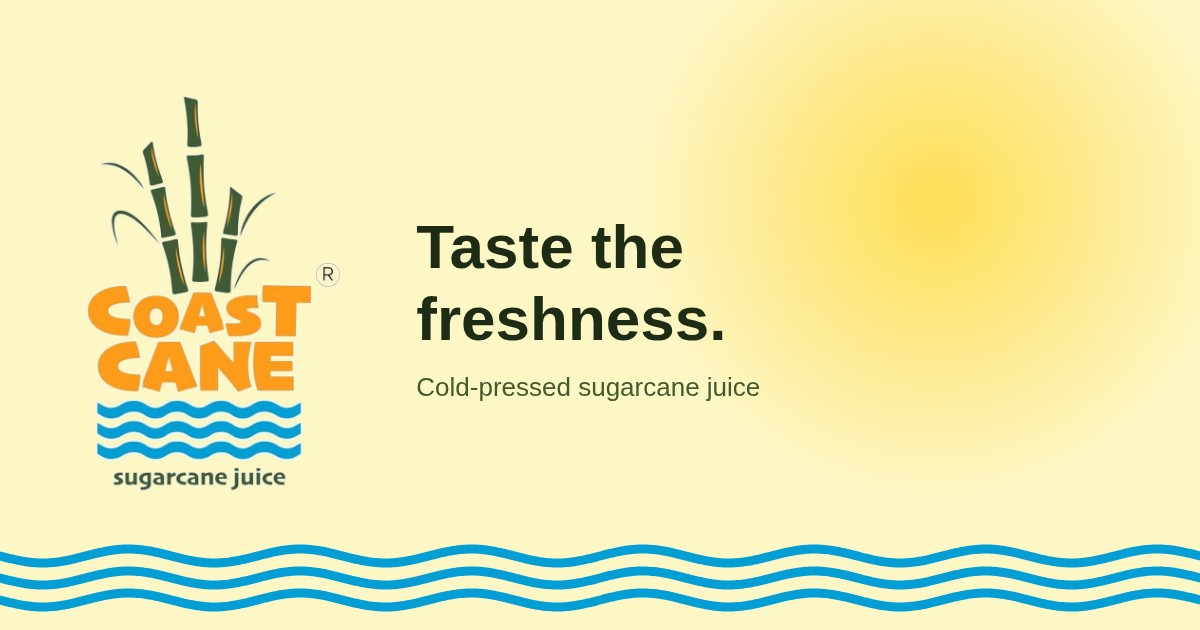
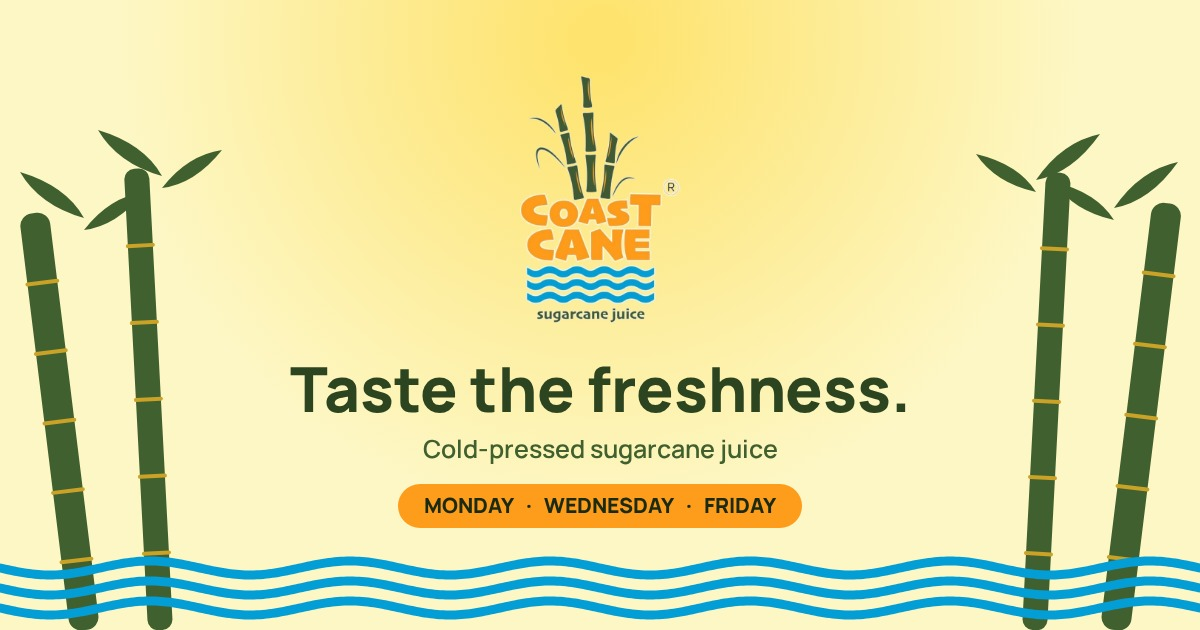
Fix link previews: absolute OG URLs and a crop-safe preview image
Sharing the link showed no image. The cause was a relative og:image
("assets/img/og-image.jpg"); WhatsApp's crawler does not resolve relative
paths, so it had nothing to fetch.

- All og:*, twitter:* and canonical URLs are now absolute against
  https://coastcane.pages.dev, as are the JSON-LD logo, image and url.
- Adds og:url, og:image:secure_url, og:image:type, og:image:alt,
  og:locale and explicit twitter:title/description/image so the card is
  complete rather than relying on crawler fallbacks.
- The image URL carries ?v=1. WhatsApp caches previews per URL, so this
  gives a way to force a refresh later.

The preview image is also redrawn. The old one placed the logo on the
left and the text on the right, which loses both halves when WhatsApp
crops a preview toward square. Logo, headline and delivery days are now
centred inside the middle 630px, with the decorative cane pushed out to
the croppable margins. Delivery days are on the card itself, since that
is the most useful fact in a shared link.

Verified by fetching the page with a WhatsApp user-agent: every tag is
present in the raw HTML with no JavaScript, and the og:image path returns
200 as a valid 1200x630 JPEG at 106 KB, well inside WhatsApp's limit.

Claude-Session: https://claude.ai/code/session_01QohTPRp1pya9JgETn8y7JW

diff --git a/index.html b/index.html
@@ -7,16 +7,39 @@
 <title>Coast Cane® | Fresh Cold-Pressed Sugarcane Juice</title>
 <meta name="description" content="Coast Cane brings you fresh, natural and tasty cold-pressed sugarcane juice. Order fresh sugarcane juice and enjoy delivery on Mondays, Wednesdays and Fridays.">
 <meta name="theme-color" content="#FDF7C5">
-<link rel="canonical" href="./">
+<link rel="canonical" href="https://coastcane.pages.dev/">
 
+<!-- ============================================================
+     LINK PREVIEWS (WhatsApp, Instagram DM, Facebook, X, iMessage)
+     ------------------------------------------------------------
+     These URLs MUST be absolute. WhatsApp's crawler does not
+     resolve relative paths, and a relative og:image is the usual
+     reason a shared link shows no picture.
+
+     If the site moves to another domain, change SITE_BASE in
+     every URL below (see SITE.md → "Link previews").
+
+     Bump the ?v= number whenever og-image.jpg changes — WhatsApp
+     caches previews per URL and will otherwise keep the old one.
+     ============================================================ -->
 <meta property="og:type" content="website">
 <meta property="og:site_name" content="Coast Cane®">
+<meta property="og:url" content="https://coastcane.pages.dev/">
+<meta property="og:locale" content="en_GB">
 <meta property="og:title" content="Coast Cane® | Fresh Cold-Pressed Sugarcane Juice">
 <meta property="og:description" content="Cold-pressed sugarcane juice, naturally refreshing and made with love. Delivery on Mondays, Wednesdays and Fridays.">
-<meta property="og:image" content="assets/img/og-image.jpg">
+<meta property="og:image" content="https://coastcane.pages.dev/assets/img/og-image.jpg?v=1">
+<meta property="og:image:secure_url" content="https://coastcane.pages.dev/assets/img/og-image.jpg?v=1">
+<meta property="og:image:type" content="image/jpeg">
 <meta property="og:image:width" content="1200">
 <meta property="og:image:height" content="630">
+<meta property="og:image:alt" content="Coast Cane — taste the freshness. Cold-pressed sugarcane juice, delivered Monday, Wednesday and Friday.">
+
 <meta name="twitter:card" content="summary_large_image">
+<meta name="twitter:title" content="Coast Cane® | Fresh Cold-Pressed Sugarcane Juice">
+<meta name="twitter:description" content="Cold-pressed sugarcane juice, naturally refreshing and made with love. Delivery on Mondays, Wednesdays and Fridays.">
+<meta name="twitter:image" content="https://coastcane.pages.dev/assets/img/og-image.jpg?v=1">
+<meta name="twitter:image:alt" content="Coast Cane — taste the freshness. Cold-pressed sugarcane juice.">
 
 <link rel="icon" href="assets/img/favicon-64.png" sizes="64x64" type="image/png">
 <link rel="apple-touch-icon" href="assets/img/apple-touch-icon.png">
@@ -34,11 +57,12 @@
 {
   "@context": "https://schema.org",
   "@type": "Organization",
+  "url": "https://coastcane.pages.dev/",
   "name": "Coast Cane",
   "alternateName": "Coast Cane®",
   "description": "Cold-press sugarcane juice cottage company serving fresh, natural and tasty sugarcane juice.",
-  "logo": "assets/img/coast-cane-logo.png",
-  "image": "assets/img/og-image.jpg",
+  "logo": "https://coastcane.pages.dev/assets/img/coast-cane-logo.png",
+  "image": "https://coastcane.pages.dev/assets/img/og-image.jpg",
   "sameAs": ["https://www.instagram.com/coast_cane/"]
 }
 </script>

diff --git a/SITE.md b/SITE.md
@@ -90,6 +90,51 @@ days confirmed in the supplied Coast Cane material.
 
 ---
 
+## Link previews (WhatsApp, Instagram DM, Facebook, X)
+
+When the link is shared, the preview card is built from the Open Graph
+tags in the `<head>` of `index.html`, plus `assets/img/og-image.jpg`.
+
+**These URLs must be absolute.** WhatsApp's crawler does not resolve
+relative paths — a relative `og:image` is the usual reason a shared link
+shows no picture. They currently point at:
+
+```
+https://coastcane.pages.dev
+```
+
+**If the site moves to a custom domain**, change that base in every
+`og:*` / `twitter:*` / `canonical` URL in `index.html`, and in the
+JSON-LD block just below them. It appears in one contiguous block, all
+clearly commented.
+
+### Refreshing a preview after a change
+
+WhatsApp caches previews per URL, sometimes for weeks. If you change
+`og-image.jpg` or the title, bump the version number on the image URL:
+
+```html
+<meta property="og:image" content="…/og-image.jpg?v=2">
+```
+
+For Facebook and WhatsApp you can also force a re-scrape at
+<https://developers.facebook.com/tools/debug/> — paste the link and press
+"Scrape Again". WhatsApp shares Facebook's crawler cache, so this is the
+fastest way to see a new preview.
+
+### Why the image is laid out the way it is
+
+WhatsApp sometimes crops previews toward a square rather than showing the
+full 1.91:1 banner. The logo, headline and delivery days are therefore
+centred, inside the middle 630px of the 1200×630 image, so nothing
+important is lost in either crop. The decorative sugarcane sits in the
+outer margins where it is safe to lose.
+
+Keep any replacement under ~600 KB or WhatsApp may silently skip it. The
+current file is ~106 KB. Regenerate it and the favicons with the scripts
+described in the commit history, or just replace the file at the same
+path and bump `?v=`.
+
 ## Swapping in photography
 
 The site ships with custom-drawn illustrations because no product photography
